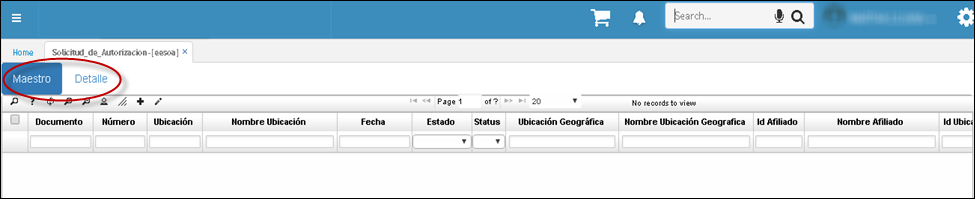
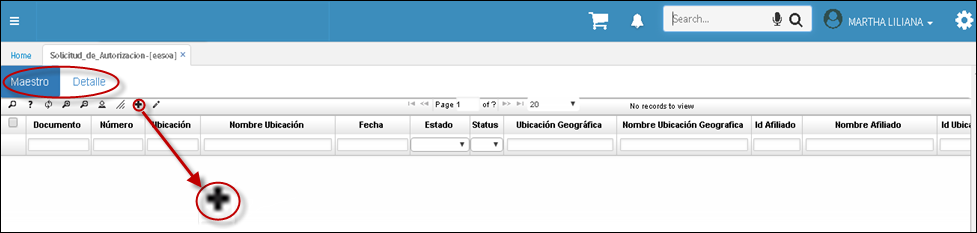
eesoa

Changed region(s): [[0.0, 0.0, 1.0, 1.0], [0.1846, 0.3015, 1.0, 0.3317], [0.0, 0.0603, 0.0308, 0.1206]]

diff --git a/Operacion/crm/portal/proveedor/eesoa.md b/Operacion/crm/portal/proveedor/eesoa.md
@@ -14,5 +14,25 @@ En esta aplicación, la IPS notifica a la EPS la solicitud de una autorización.
 
 **Importante** diligenciar todos los campos que incluya la pestaña Maestro y Detalle.
 
-
 ![](Imagen 1 eesoa.png)
+
+![](Imagen 2 eesoa.png)
+
+El sistema automáticamente muestra el **NIT** del prestador.  
+
+Debe diligenciar los sigueintes campos: 
+
+**SEDE** en caso de que la *IPS* tenga más de una sede,  para saber de donde se está solicitando la autorización. 
+**Identificación** estos campos en color azul, poseen zoom de búsqueda al darle doble clic.
+
+![](Imagen 3 eesoa.png)
+
+Posteriormente nos vamos al detalle y adicionamos los productos autorizar.
+
+![](Imagen 4 eesoa.png)
+
+![](Imagen 5 eesoa.png)
+
+Nos regresamos al maestro, allí podremos adjuntar los soportes de la solicitud.
+
+La solicitud estará satisfactoriamente creada en nuestro sistema de información.
